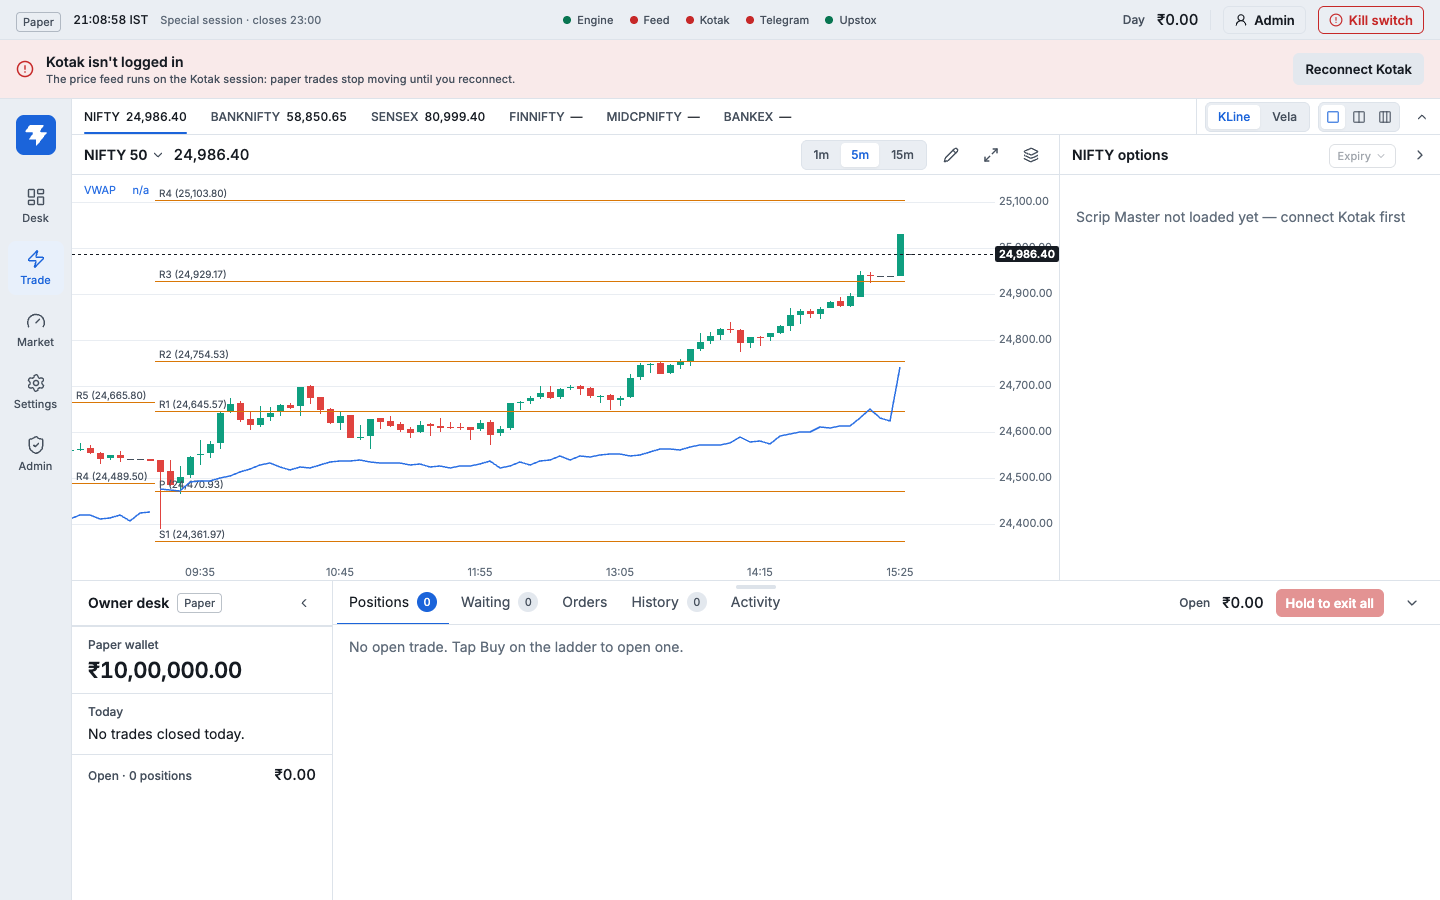
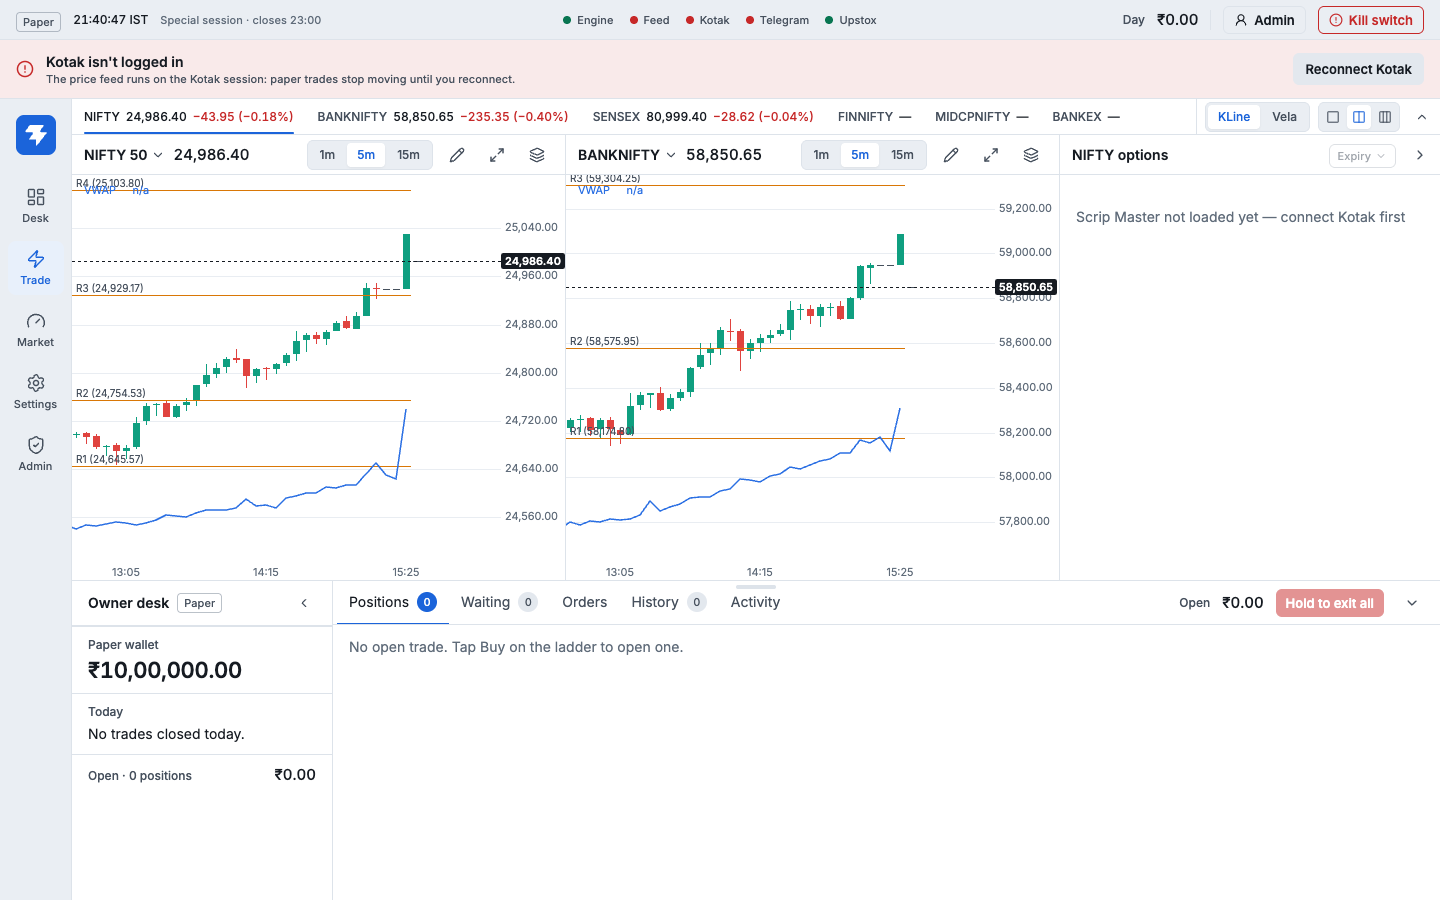
feat(v2): remove the desk column per user; the ticker's day change from Upstox too
Settings -> Trade gets an Owner desk (Paper portfolio for users) switch:
off takes the column off the desktop Trade screen completely, kept per
sign-in in the browser; Reset layout leaves it alone, and switching it
back on unfolds the column.

NIFTY, BANKNIFTY and SENSEX show the points and the percent on the
ticker. When Kotak's feed has no change (after its session, or a dead
feed), the frame's change comes from Upstox's previous close, quoted
with the poller's minute in a call of its own so the futures' VWAP quote
is never affected.

diff --git a/frontend/src/v2/trade/Trade.tsx b/frontend/src/v2/trade/Trade.tsx
@@ -37,7 +37,7 @@ import { MINUS, money, price, signedPct, toneOf, todayIst } from '../lib/format'
 import { usePoll } from '../lib/usePoll';
 import type { ChainAnswer, ExpiriesAnswer } from '../lib/types';
 import { useTickFlash } from '../lib/useTickFlash';
-import { TRADE_KEY } from '../lib/layout';
+import { TRADE_KEY, useDeskRemoved } from '../lib/layout';
 import { useGuard } from '../shell/useGuard';
 import { ResizeHandle } from '../ui/ResizeHandle';
 import { Segment } from '../ui/Segment';
@@ -220,11 +220,18 @@ function signedPoints(spot: number, changePct: number): string {
   return `${v > 0 ? '+' : v < 0 ? MINUS : ''}${price(Math.abs(v))}`;
 }
 
-/** One index on the desktop ticker: "NIFTY 24,986.40 −0.18%", with the
- * points ("−43.95 (−0.18%)") when the bar is wide enough, the value flashing
- * as it ticks; the selected one is underlined in accent. */
+/** The indices the ticker gives the day's points as well as the percent
+ * whenever the bar has room for them; the others only on a wide window. */
+const TICKER_POINTS = new Set(['NIFTY', 'BANKNIFTY', 'SENSEX']);
+
+/** One index on the desktop ticker: "NIFTY 24,986.40 −43.95 (−0.18%)", or
+ * "−0.18%" alone where room is short (see `TICKER_POINTS`), the value
+ * flashing as it ticks; the selected one is underlined in accent. */
 function TickerItem({ index, spot, changePct, on, onSelect }: { index: string; spot: number | null; changePct: number | null; on: boolean; onSelect: () => void }) {
   const flash = useTickFlash(spot, true, index);
+  // All six with points need about 98rem; the three with points, the rest
+  // with the percent, about 70rem (a 1440 px window with the nav rail).
+  const points = TICKER_POINTS.has(index) ? 'hidden @[70rem]:inline' : 'hidden @[98rem]:inline';
   return (
     <button
       type="button"
@@ -237,12 +244,11 @@ function TickerItem({ index, spot, changePct, on, onSelect }: { index: string; s
       <span key={flash.key} className={`-mx-0.5 rounded-4 px-0.5 num-small text-fg ${flash.className}`}>
         {spot == null ? '—' : price(spot)}
       </span>
-      {/* The points too only when all six fit with them (a wide window). */}
       {spot != null && changePct != null && (
         <span className={`num-small ${TONE_TEXT[toneOf(changePct)]}`}>
-          <span className="hidden @[98rem]:inline">{signedPoints(spot, changePct)} (</span>
+          <span className={points}>{signedPoints(spot, changePct)} (</span>
           {signedPct(changePct)}
-          <span className="hidden @[98rem]:inline">)</span>
+          <span className={points}>)</span>
         </span>
       )}
     </button>
@@ -305,6 +311,8 @@ export function Trade({ serverBase, desktop }: { serverBase: string; desktop: bo
   }, []);
   // Desktop: the charts row, which the trading panel grows up into.
   const chartsRef = useRef<HTMLDivElement>(null);
+  // The desk column, unless this sign-in took it away in Settings.
+  const [deskRemoved] = useDeskRemoved();
   const setPanelHeight = useCallback((panelHeight: number) => save((s) => ({ ...s, panelHeight })), [save]);
   // Desktop: the charts' own row, and the widths under a drag (kept here
   // until the pointer lifts, then saved once).
@@ -998,6 +1006,7 @@ export function Trade({ serverBase, desktop }: { serverBase: string; desktop: bo
         onDeskWidth={(deskWidth) => save((s) => ({ ...s, deskWidth }))}
         deskHidden={saved.deskHidden}
         onDeskHidden={(deskHidden) => save((s) => ({ ...s, deskHidden }))}
+        deskRemoved={deskRemoved}
         chartsRef={chartsRef}
         layout={saved.barHidden ? 'bar hidden' : 'bar shown'}
         paper={account}

diff --git a/frontend/src/v2/lib/layout.ts b/frontend/src/v2/lib/layout.ts
@@ -4,11 +4,14 @@
 
 import { useSyncExternalStore } from 'react';
 import { readStored, writeStored } from '../../lib/execute';
+import { useIdentity } from '../auth/identity';
 
 /** The Trade screen's saved state (`Trade.tsx`). */
 export const TRADE_KEY = 'v2.trade';
 /** The desktop navigation rail, hidden or shown. */
 const NAV_KEY = 'v2.nav';
+/** The Trade screen's desk column taken away, per sign-in: `v2.desk.<user id>`. */
+const DESK_KEY = 'v2.desk.';
 
 /**
  * The Trade screen's layout fields: sizes and folded panes. Its picks — the
@@ -49,6 +52,47 @@ export function useNavHidden(): [boolean, () => void] {
     () => navHidden,
   );
   return [hidden, () => setNav(!navHidden)];
+}
+
+// Whether each sign-in has taken the desk column away, as read or set here.
+const deskRemovedBy = new Map<string, boolean>();
+const deskOff = (key: string) => {
+  if (!deskRemovedBy.has(key)) deskRemovedBy.set(key, readStored<{ removed?: boolean }>(key, {}).removed === true);
+  return deskRemovedBy.get(key) === true;
+};
+
+/**
+ * Whether the signed-in user has removed the Trade screen's desk column (the
+ * Owner desk, or a user's Paper portfolio) in Settings, and the setter. Each
+ * sign-in on this browser has its own; Reset layout leaves it alone.
+ */
+export function useDeskRemoved(): [boolean, (removed: boolean) => void] {
+  const { user } = useIdentity();
+  const key = `${DESK_KEY}${user?.id ?? 'none'}`;
+  const removed = useSyncExternalStore(
+    (l) => {
+      listeners.add(l);
+      return () => listeners.delete(l);
+    },
+    () => deskOff(key),
+  );
+  return [
+    removed,
+    (v: boolean) => {
+      deskRemovedBy.set(key, v);
+      writeStored(key, { removed: v });
+      // Back on means shown, not back to a strip it was folded to before.
+      if (!v) {
+        const saved = readStored<Record<string, unknown> | null>(TRADE_KEY, null);
+        if (saved && 'deskHidden' in saved) {
+          const kept = { ...saved };
+          delete kept.deskHidden;
+          writeStored(TRADE_KEY, kept);
+        }
+      }
+      listeners.forEach((l) => l());
+    },
+  ];
 }
 
 /**

diff --git a/frontend/src/v2/settings/OtherSections.tsx b/frontend/src/v2/settings/OtherSections.tsx
@@ -4,7 +4,8 @@ import type { Flags, SystemAnswer } from '../lib/types';
 import { useGuard } from '../shell/useGuard';
 import { NumberInput } from '../ui/NumberInput';
 import { Toggle } from '../ui/Toggle';
-import { resetLayout } from '../lib/layout';
+import { useIdentity } from '../auth/identity';
+import { resetLayout, useDeskRemoved } from '../lib/layout';
 import { Button } from '../ui/Button';
 import { useToast } from '../ui/toast';
 import { LINK_BUTTON, LINK_BUTTON_LG, Row, Section } from './parts';
@@ -14,9 +15,18 @@ import type { SettingsState } from './useSettings';
 /** Trade: how its orders go, which is fixed. */
 export function TradeNotes({ flags, id, title }: { flags: Flags | null; id?: string; title?: string }) {
   const toast = useToast();
+  const { canReadOwner } = useIdentity();
+  const [deskRemoved, setDeskRemoved] = useDeskRemoved();
+  const deskName = canReadOwner ? 'Owner desk' : 'Paper portfolio';
   return (
     <Section id={id} title={title}>
-      <Row title="Layout" caption="Every pane on the Trade screen back to its first size and shown again, and the navigation rail back. Your charts, drawings, lots and expiries stay.">
+      <Row
+        title={deskName}
+        caption={`The column beside the positions on the desktop Trade screen. Off takes it away completely, with no strip to bring it back; only for you, on this browser.`}
+      >
+        <Toggle checked={!deskRemoved} onChange={(on) => setDeskRemoved(!on)} label={`Show the ${deskName} on the Trade screen`} />
+      </Row>
+      <Row title="Layout" caption={`Every pane on the Trade screen back to its first size and shown again, and the navigation rail back. Your charts, drawings, lots and expiries stay, and so does the ${deskName} switch above.`}>
         <Button
           onClick={() => {
             resetLayout();

diff --git a/frontend/src/v2/trade/panel/TradingPanel.tsx b/frontend/src/v2/trade/panel/TradingPanel.tsx
@@ -187,7 +187,7 @@ export function AccountColumn({ mode, desk, positions, paper, vertical, onHide }
  * Exit all is held. Its top edge drags to resize it — up into the charts,
  * never past the bottom of the window — and the chevron folds it.
  */
-export function TradingPanel({ serverBase, mode, desk, scalps, errors, fills, history, h, canSet, onAdd, onRemove, open, onToggle, height, onHeight, deskWidth, onDeskWidth, deskHidden, onDeskHidden, chartsRef, layout, paper }: {
+export function TradingPanel({ serverBase, mode, desk, scalps, errors, fills, history, h, canSet, onAdd, onRemove, open, onToggle, height, onHeight, deskWidth, onDeskWidth, deskHidden, onDeskHidden, deskRemoved, chartsRef, layout, paper }: {
   serverBase: string;
   mode: string;
   desk: DeskAnswer | null;
@@ -212,6 +212,8 @@ export function TradingPanel({ serverBase, mode, desk, scalps, errors, fills, hi
   deskWidth: number;
   onDeskWidth: (w: number) => void;
   deskHidden: boolean;
+  /** Taken away in Settings: no column, no strip, no edge. */
+  deskRemoved: boolean;
   onDeskHidden: (hidden: boolean) => void;
   /** The charts above, which give the panel its room. */
   chartsRef: RefObject<HTMLElement | null>;
@@ -523,7 +525,7 @@ export function TradingPanel({ serverBase, mode, desk, scalps, errors, fills, hi
       >
         <span className="mt-1 h-1 w-10 rounded-full bg-line transition-colors duration-120 group-hover:bg-line-strong" />
       </div>
-      {deskHidden ? (
+      {deskRemoved ? null : deskHidden ? (
         <button
           type="button"
           onClick={() => onDeskHidden(false)}

diff --git a/backend/server/src/market_data.rs b/backend/server/src/market_data.rs
@@ -90,6 +90,9 @@ pub struct IndexLive {
     pub future_symbol: Option<String>,
     pub fut_ltp: Option<f64>,
     pub fut_vwap: Option<f64>,
+    /// The previous session's close, from Upstox's quote of the index: the
+    /// day's change when Kotak's feed has none.
+    pub prev_close: Option<f64>,
     /// IST `YYYY-MM-DD HH:MM:SS` of the last successful chain poll.
     pub updated_at: Option<String>,
     pub last_error: Option<String>,
@@ -302,6 +305,16 @@ pub async fn run_poller(
                 HashMap::new()
             }
         };
+        // The indices' own quotes, for the previous close only: asked apart
+        // from the futures', so a failure here never costs the VWAP.
+        let index_keys: Vec<String> = INDICES.iter().map(|s| s.underlying_key.to_string()).collect();
+        let index_quotes = match client.quotes(&index_keys).await {
+            Ok(q) => q,
+            Err(e) => {
+                tracing::debug!(error = %e, "Upstox index quote failed");
+                HashMap::new()
+            }
+        };
 
         for spec in &INDICES {
             let result = poll_index(&client, spec, today, &mut expiries).await;
@@ -309,6 +322,10 @@ pub async fn run_poller(
             let quote = fut.and_then(|f| quotes.get(&f.instrument_key));
             let fut_ltp = quote.map(|q| q.last_price).filter(|v| *v > 0.0);
             let fut_vwap = quote.map(|q| q.average_price).filter(|v| *v > 0.0);
+            let prev_close = index_quotes
+                .get(spec.underlying_key)
+                .map(|q| q.last_price - q.net_change)
+                .filter(|c| c.is_finite() && *c > 0.0);
 
             match result {
                 Ok((expiry, rows, spot)) => {
@@ -357,6 +374,9 @@ pub async fn run_poller(
                     live.future_symbol = fut.map(|f| f.trading_symbol.clone());
                     live.fut_ltp = fut_ltp;
                     live.fut_vwap = fut_vwap;
+                    if prev_close.is_some() {
+                        live.prev_close = prev_close;
+                    }
                     live.updated_at = Some(ts.clone());
                     live.last_error = None;
                 }

diff --git a/backend/server/src/execute.rs b/backend/server/src/execute.rs
@@ -488,6 +488,10 @@ async fn upstox_spot(state: &AppState, index: &str) -> Option<f64> {
     state.market.indices.read().await.get(index).and_then(|l| l.spot).filter(|s| *s > 0.0)
 }
 
+async fn upstox_prev_close(state: &AppState, index: &str) -> Option<f64> {
+    state.market.indices.read().await.get(index).and_then(|l| l.prev_close).filter(|c| *c > 0.0)
+}
+
 /// Spot from put-call parity on whatever strikes have both prices: at the
 /// strike where call and put are closest, `K + CE − PE`.
 fn parity_spot(state: &AppState, strikes: &[ChainStrike]) -> Option<f64> {
@@ -677,9 +681,19 @@ pub async fn build_frame(state: &AppState, identity: &Identity, index: &str, exp
 
     let mut indices = Vec::with_capacity(INDEX_NAMES.len());
     for &name in INDEX_NAMES {
-        let (spot, change_pct) = match kotak_index(state, name) {
-            Some((s, c)) => (Some(s), c),
-            None => (upstox_spot(state, name).await, None),
+        let kotak = kotak_index(state, name);
+        let spot = match kotak {
+            Some((s, _)) => Some(s),
+            None => upstox_spot(state, name).await,
+        };
+        // Kotak's change, else one from Upstox's previous close (NIFTY,
+        // BANKNIFTY and SENSEX): Kotak's is gone after its session ends.
+        let change_pct = match kotak.and_then(|(_, c)| c) {
+            Some(c) => Some(c),
+            None => match (spot, upstox_prev_close(state, name).await) {
+                (Some(s), Some(c)) => Some((s - c) / c * 100.0),
+                _ => None,
+            },
         };
         indices.push(IndexHeadline { index: name, spot, change_pct });
     }

diff --git a/backend/upstox_client/src/lib.rs b/backend/upstox_client/src/lib.rs
@@ -192,6 +192,9 @@ pub struct Quote {
     pub volume: f64,
     #[serde(default, deserialize_with = "num")]
     pub oi: f64,
+    /// Points from the previous session's close to `last_price`.
+    #[serde(default, deserialize_with = "num")]
+    pub net_change: f64,
 }
 
 #[derive(Debug, Clone, Serialize)]
